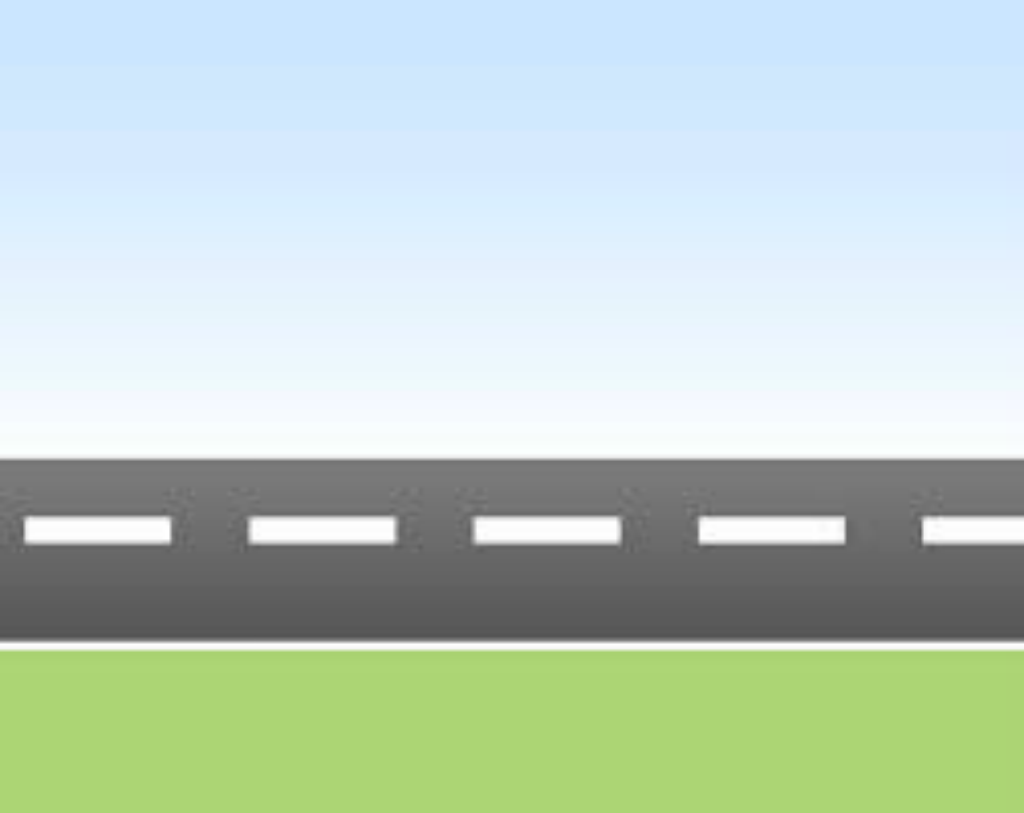
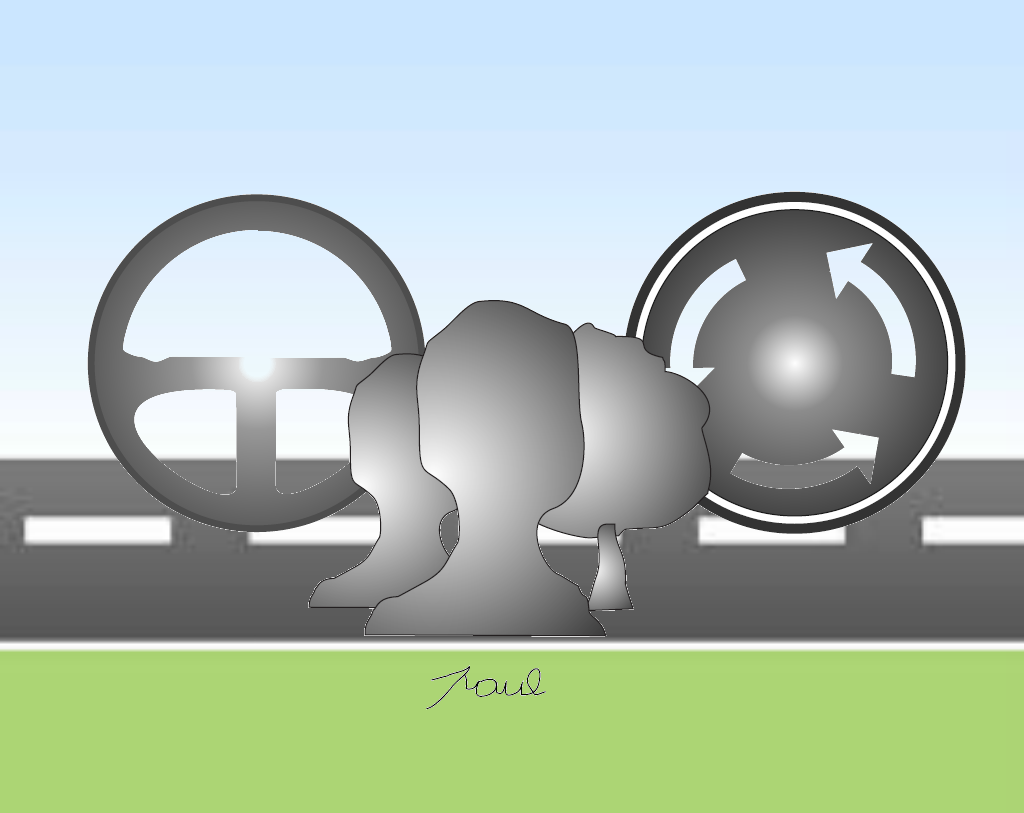
CSS + Aanpassingen GUI

Changed region(s): [[0.0625, 0.2153, 0.9688, 0.7995], [0.4375, 0.8303, 0.5312, 0.861]]

diff --git a/src/gui/css/GUI.css b/src/gui/css/GUI.css
@@ -4,3 +4,12 @@
     -fx-background-size: 1024 768;
     -fx-background-position: center center;
 }
+
+#hoofdPane{
+    -fx-background-color: #424242;
+}
+
+#btnVerkeer, #btnStuur{
+    -fx-background-radius: 100;
+    -fx-background-color: black;
+}

diff --git a/src/gui/HoofdmenuController.java b/src/gui/HoofdmenuController.java
@@ -54,13 +54,13 @@ public class HoofdmenuController implements Initializable {
     }
     @FXML
     private void btnStuurAction(ActionEvent event) throws Exception{
-//        ((Node)(event.getSource())).getScene().getWindow().hide();
-//        Parent parent = FXMLLoader.load(getClass().getResource("/gui/LoginScherm.fxml"));
-//        Stage stage = new Stage();
-//        Scene scene = new Scene(parent);
-//        stage.setScene(scene);
-//        stage.setTitle("Nieuwe login");
-//        stage.show();
+        ((Node)(event.getSource())).getScene().getWindow().hide();
+        Parent parent = FXMLLoader.load(getClass().getResource("/gui/Rijtechnieken.fxml"));
+        Stage stage = new Stage();
+        Scene scene = new Scene(parent);
+        stage.setScene(scene);
+        stage.setTitle("Rijtechnieken");
+        stage.show();
     }
     @FXML
     private void btnVerkeerAction(ActionEvent event) throws Exception{
